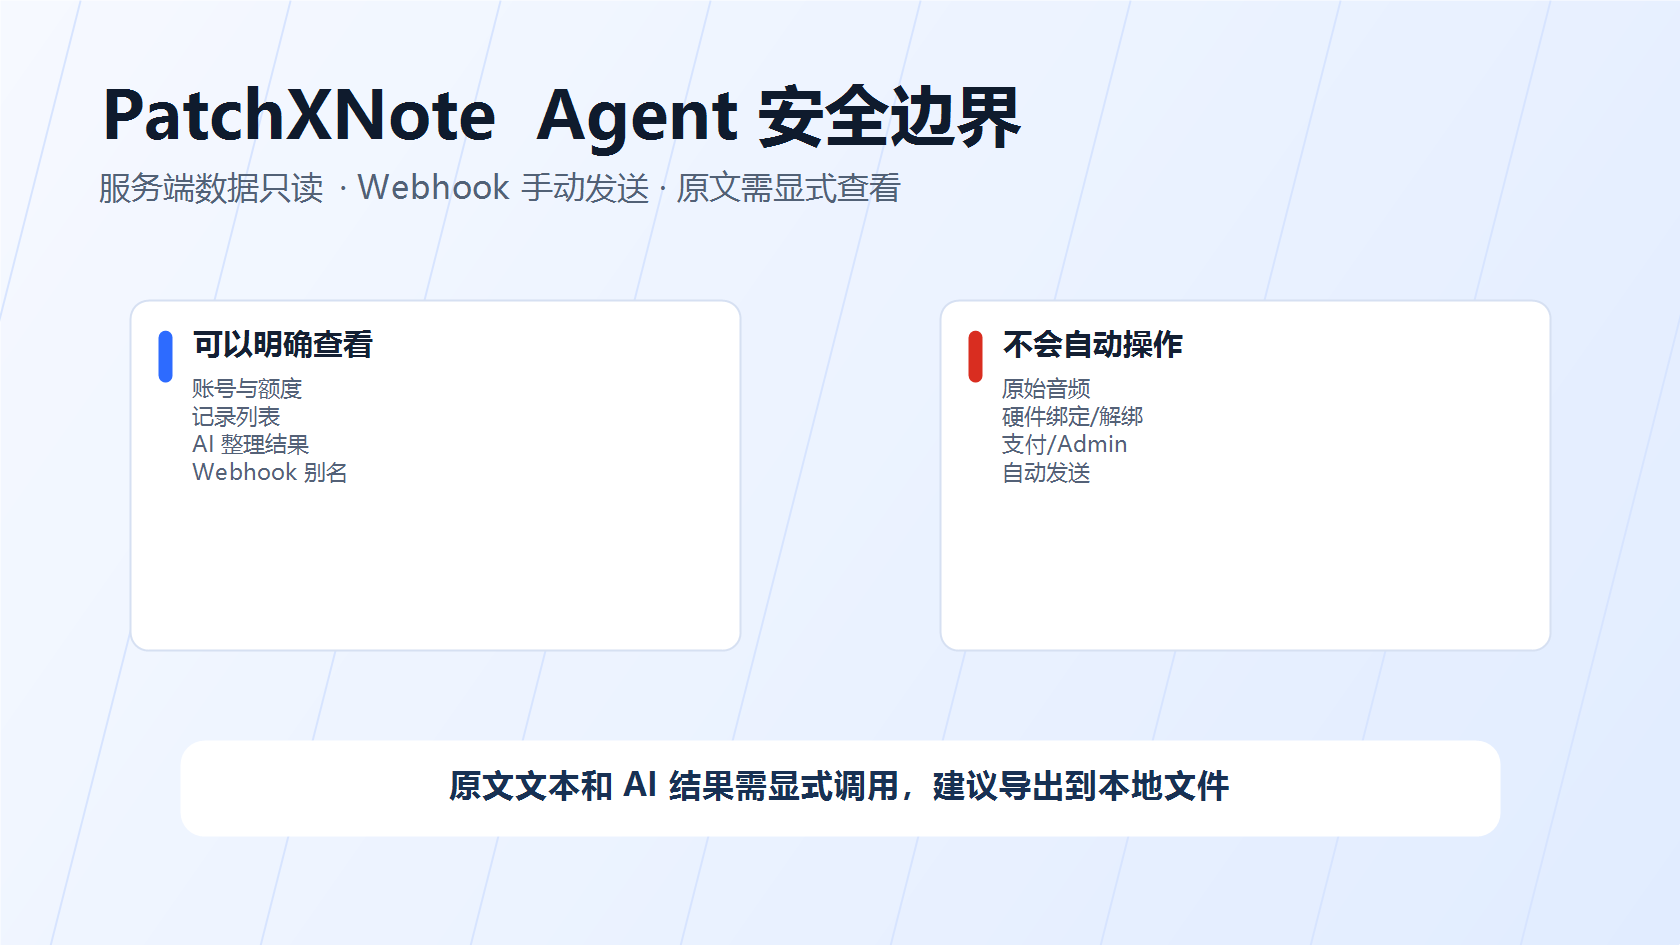
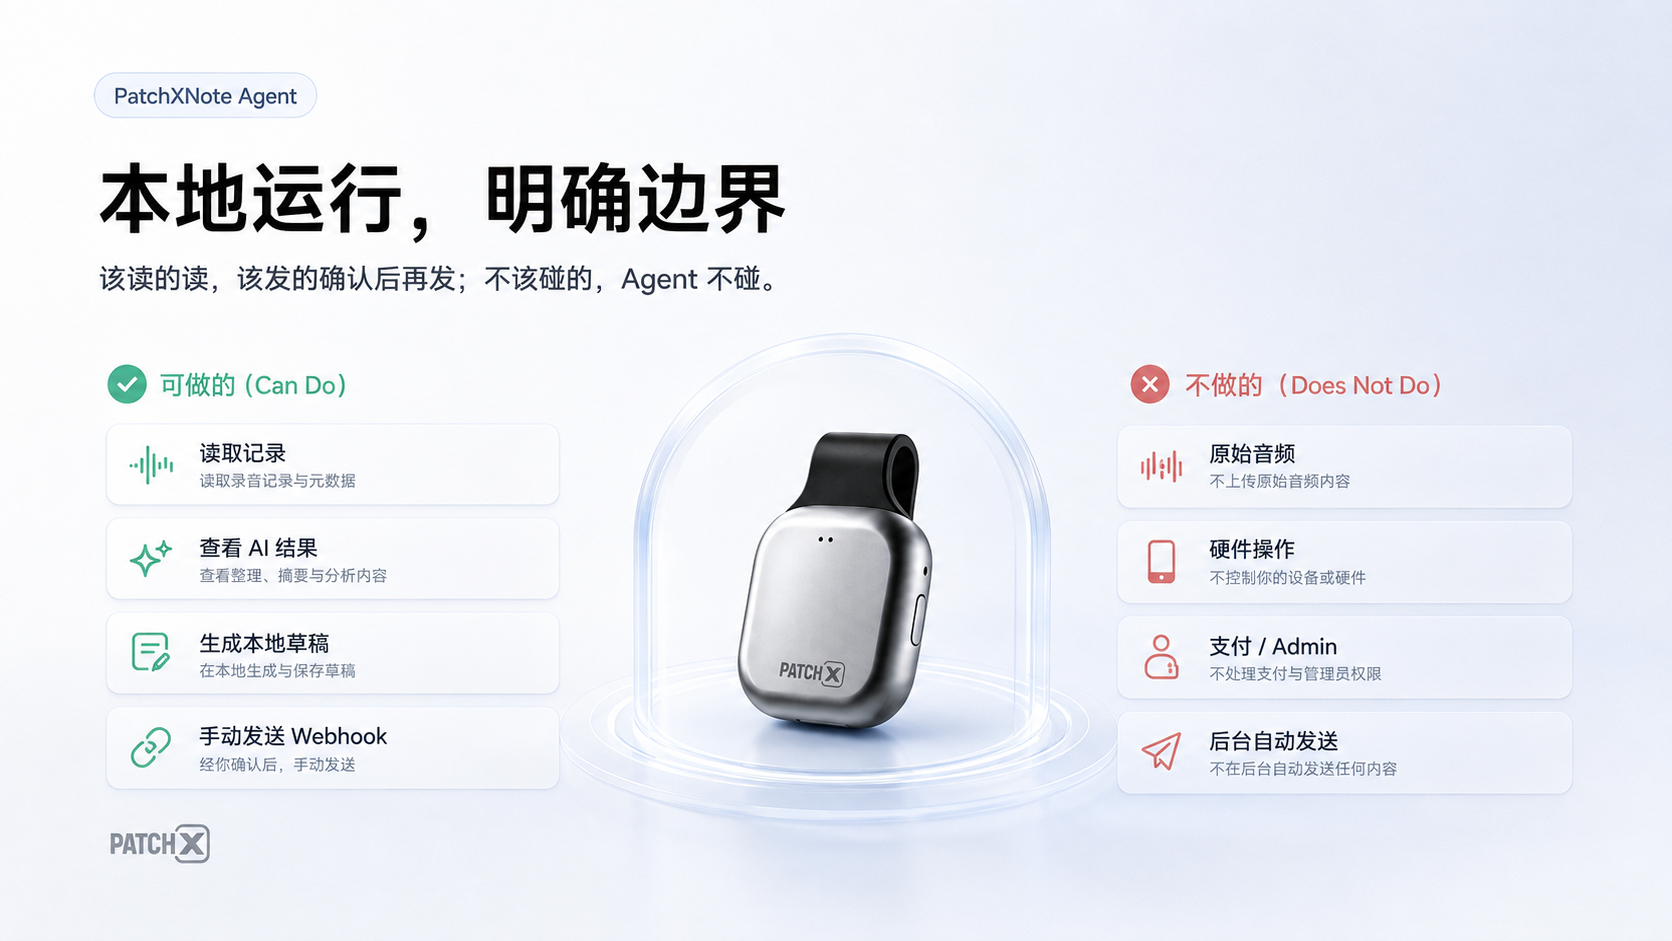
docs: refresh README product visuals

diff --git a/docs/readme-benchmark.zh-CN.md b/docs/readme-benchmark.zh-CN.md
@@ -64,33 +64,47 @@
 
 当产品事实变化时，必须同步更新 `docs/assets/patchxnote-agent-*.png`。当前公开素材应表达：
 
+- 所有 README / npm / 对外公开图片都必须同时出现：
+  - PatchXNote / PATCHX 品牌标识，不能只用抽象图标或无品牌卡片。
+  - AI 录音卡真实产品主体，不能只用概念设备、几何装饰或纯文字说明。
+- 图片风格参考现有产品宣发图：浅蓝底、白色纸面模块、黑色主文字、简洁留白、真实产品图；避免 AI 生成感、渐变炫光、抽象科技背景和过度装饰。
+- 产品图和 logo 不能只是“裁剪后贴进去”的小插图。每张公开图必须围绕产品做版面设计，让 AI 录音卡成为主视觉或清晰的视觉锚点，再用少量信息解释 Agent 能力。
+- 设计目标是“产品宣发 + 功能说明平衡”：比技术流程图更像产品宣传页，但仍能让 README 读者快速知道能做什么、怎么开始、边界在哪里。
+- 每张图只突出一个重点。不要把全部功能堆到每张图里；用户扫图时应能直接知道这张图负责解释什么。
 - `patchxnote-agent-cover.png`
-  - 标题：`PatchXNote Agent`
-  - 副标题：`让 AI 帮你查看记录、整理结果、发送 Webhook`
-  - 卡片：`安装 CLI`、`连接 AI 助手`、`查看记录`、`手动发送`
+  - 重点：Agent 的首屏价值。
+  - 主标题：`让 AI 读懂你的记录`
+  - 表达：记录查询、AI 整理和 Webhook 发送。
+  - 右侧使用产品宣发纸面，必须出现 PatchXNote / PATCHX 品牌信号和 AI 录音卡真实产品图。
 - `patchxnote-agent-quickstart.png`
-  - 标题：`三步接入 PatchXNote Agent`
-  - 步骤：`安装 CLI`、`验证码登录`、`连接 AI 助手`
-  - 底部：`开始查看记录、AI 整理结果，并手动发送 Webhook`
-- `patchxnote-agent-architecture.png`
-  - 主链路：`AI 助手 -> 本地 MCP -> patchxnote CLI -> Agent API`
-  - 本地支路：`本地 Webhook 配置/发送`
-  - 目标：`PatchXNote 服务端只读接口`、`本地安全存储`、`飞书/钉钉/Webhook`
+  - 重点：用户三步接入。
+  - 标题：`三步接入 AI 助手`
+  - 步骤：`安装`、`登录`、`接入 MCP`
+  - 命令示例：`npx -y patchxnote-agent install --print-config`、`patchxnote login`、`patchxnote mcp serve`
+- `patchxnote-agent-records.png`
+  - 重点：按平台找到记录。
+  - 标题：`找到你的每条记录`
+  - 表达：按手机端或电脑端查看记录，支持搜索和读取记录详情。
 - `patchxnote-agent-tools.png`
-  - 标题：`PatchXNote Agent 工具能力`
-  - 副标题：`19 个 MCP 工具，帮 AI 查看记录、整理结果和发送 Webhook`
-  - 三组：`账号和记录查询 7`、`Webhook 配置和发送 7`、`AI 整理结果查看 5`
+  - 重点：19 个 MCP 工具怎么分组。
+  - 标题：`19 个 MCP 工具`
+  - 三组：`记录查询 7`、`Webhook 7`、`AI 结果 5`
+- `patchxnote-agent-model-io.png`
+  - 重点：AI 整理背后的内容可以显式查看或导出。
+  - 标题：`看见 AI 整理背后的内容`
+  - 四组：`原始文本`、`AI 返回`、`解析结果`、`最终结果`
+- `patchxnote-agent-webhook-delivery.png`
+  - 重点：Webhook 协作发送。
+  - 标题：`整理好，再发送`
+  - 主链路：`Markdown 草稿 -> 确认发送 -> 飞书/钉钉/Webhook`
+  - 表达：先生成草稿，用户确认后再手动发送。
 - `patchxnote-agent-safety-boundary.png`
-  - 左侧：`可以明确查看`，包含账号与额度、记录列表、AI 整理结果、Webhook 别名。
-  - 右侧：`不会自动操作`，包含原始音频、硬件绑定/解绑、支付/Admin、自动发送。
-  - 底部：`原文文本和 AI 结果需显式调用，建议导出到本地文件`
-- `patchxnote-agent-feishu-cover.png`
-  - 副标题：`把 PatchXNote 记录整理成 Markdown，发送到飞书/钉钉`
-  - 卡片：`查看记录`、`生成草稿`、`确认后发送`
-- `patchxnote-agent-social-preview.png`
-  - 英文短句：`Records · AI Results · Webhook Delivery`
+  - 重点：能看什么、不会做什么。
+  - 标题：`本地运行，明确边界`
+  - 左侧：读取记录、查看 AI 结果、生成本地草稿、手动发送 Webhook。
+  - 右侧：原始音频、硬件操作、支付/Admin、后台自动发送都不做。
 
-图片必须保持现有浅蓝/白色背景、蓝色图标、白色卡片、柔和阴影和 MR20 产品信号。中文或英文文字如果变形、拼错、裁切、过小，不能发布。
+图片必须保持现有浅蓝/白色背景、白色卡片、黑色主文字、真实产品图和 PATCHX/PatchXNote 品牌信号。中文或英文文字如果变形、拼错、裁切、过小，不能发布。
 
 ## 禁止内容
 

diff --git a/README.md b/README.md
@@ -133,8 +133,6 @@ Create a Markdown draft from this record so I can edit it before sending.
 
 ## MCP Configuration
 
-![PatchXNote Agent architecture](./docs/assets/patchxnote-agent-architecture.png)
-
 Use the `--print-config` output from the installer. A typical config looks like this:
 
 ```json
@@ -158,6 +156,8 @@ PatchXNote Agent `0.2.5` exposes **19 MCP tools**. End users can think of them a
 
 ### Account And Record Lookup
 
+![PatchXNote Agent record lookup](./docs/assets/patchxnote-agent-records.png)
+
 | Tool | Purpose |
 | --- | --- |
 | `patchxnote_get_current_user` | Show the current PatchXNote account status. |
@@ -170,6 +170,8 @@ PatchXNote Agent `0.2.5` exposes **19 MCP tools**. End users can think of them a
 
 ### Webhook Configuration And Sending
 
+![PatchXNote Agent webhook delivery](./docs/assets/patchxnote-agent-webhook-delivery.png)
+
 | Tool | Purpose |
 | --- | --- |
 | `patchxnote_list_webhook_targets` | List local webhook aliases and masked metadata. |
@@ -181,6 +183,8 @@ PatchXNote Agent `0.2.5` exposes **19 MCP tools**. End users can think of them a
 | `patchxnote_send_webhook` | Manually send Markdown, a draft, a rendered record, or a test message to target aliases. |
 
 ### AI Result Inspection
+
+![PatchXNote Agent AI result inspection](./docs/assets/patchxnote-agent-model-io.png)
 
 | Tool | Purpose |
 | --- | --- |

diff --git a/README.zh-CN.md b/README.zh-CN.md
@@ -133,8 +133,6 @@ patchxnote login
 
 ## MCP 配置
 
-![PatchXNote Agent 架构](./docs/assets/patchxnote-agent-architecture.png)
-
 使用安装器 `--print-config` 打印的配置。典型配置如下：
 
 ```json
@@ -158,6 +156,8 @@ PatchXNote Agent `0.2.5` 暴露 **19 个 MCP 工具**。普通用户可以先理
 
 ### 账号和记录查询
 
+![PatchXNote Agent 记录查询](./docs/assets/patchxnote-agent-records.png)
+
 | 工具 | 用途 |
 | --- | --- |
 | `patchxnote_get_current_user` | 查看当前 PatchXNote 账号状态。 |
@@ -170,6 +170,8 @@ PatchXNote Agent `0.2.5` 暴露 **19 个 MCP 工具**。普通用户可以先理
 
 ### Webhook 配置和发送
 
+![PatchXNote Agent Webhook 发送](./docs/assets/patchxnote-agent-webhook-delivery.png)
+
 | 工具 | 用途 |
 | --- | --- |
 | `patchxnote_list_webhook_targets` | 查看本机配置过的 webhook 别名和脱敏信息。 |
@@ -181,6 +183,8 @@ PatchXNote Agent `0.2.5` 暴露 **19 个 MCP 工具**。普通用户可以先理
 | `patchxnote_send_webhook` | 手动发送 Markdown、草稿、记录渲染结果或测试消息到指定别名。 |
 
 ### AI 整理结果查看
+
+![PatchXNote Agent AI 整理结果](./docs/assets/patchxnote-agent-model-io.png)
 
 | 工具 | 用途 |
 | --- | --- |
